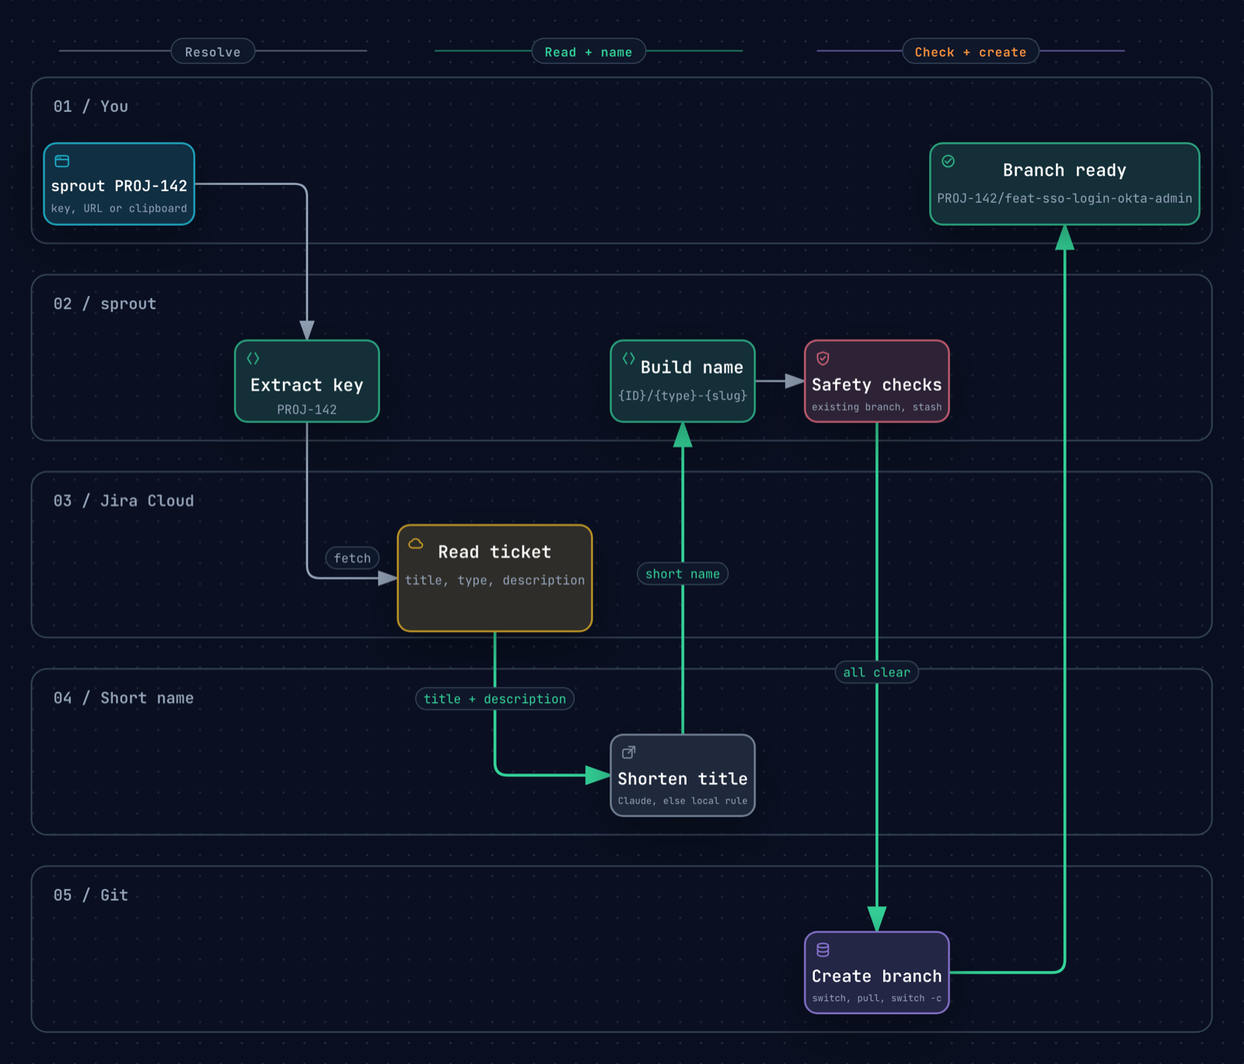
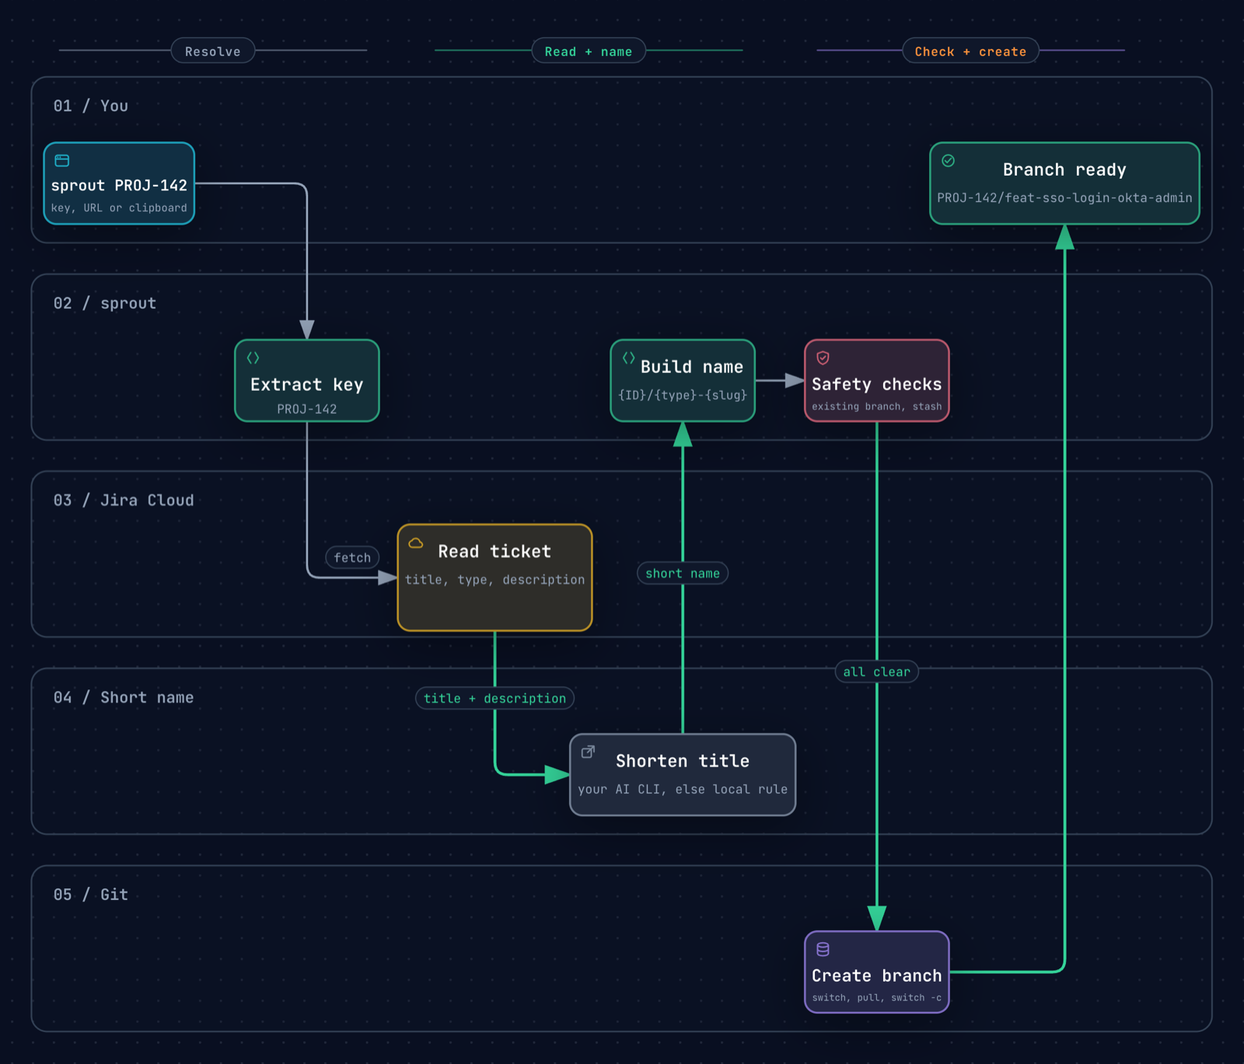
Support any AI CLI for branch names (Claude, Gemini, Codex, Copilot, Cursor or a custom command)

diff --git a/docs/index.html b/docs/index.html
@@ -199,7 +199,7 @@ Switched to a new branch 'PROJ-142/feat-sso-login-okta-admin'</span>
       <div class="grid">
         <article class="card"><div class="ico" aria-hidden="true">#</div><h3>Key or URL, even from the clipboard</h3><p>Pass <code>PROJ-123</code>, paste a Jira link, or run <code>sprout</code> with a URL on your clipboard. Hostnames never get mistaken for tickets.</p></article>
         <article class="card"><div class="ico" aria-hidden="true">&#8644;</div><h3>Reads title and type from Jira</h3><p>Bug becomes <code>fix</code>, Tech task becomes <code>chore</code>, the rest <code>feat</code>. Or pass your own title and type, no Jira needed.</p></article>
-        <article class="card"><div class="ico" aria-hidden="true">&#10024;</div><h3>Short, descriptive, in English</h3><p>With Claude installed, long tickets become 2&ndash;5 meaningful words, translated to English by default (set <code>SPROUT_LANG</code> for another language). Without it, a local rule does the job.</p></article>
+        <article class="card"><div class="ico" aria-hidden="true">&#10024;</div><h3>Short, descriptive, in English</h3><p>With an AI CLI installed (Claude Code, Gemini, Codex, Copilot, Cursor or your own command), long tickets become 2&ndash;5 meaningful words, translated to English by default (set <code>SPROUT_LANG</code> for another language). Without it, a local rule does the job.</p></article>
         <article class="card"><div class="ico" aria-hidden="true">&#128737;</div><h3>Careful with your work</h3><p>Offers to stash uncommitted changes, switches to an existing branch for the ticket instead of duplicating it, and stops at the first Git error.</p></article>
         <article class="card"><div class="ico" aria-hidden="true">&#9881;</div><h3>Your conventions</h3><p>Custom branch format, allowed types, base branch and remote. The remote default branch is auto-detected.</p></article>
         <article class="card"><div class="ico" aria-hidden="true">&#128273;</div><h3>Token stays in the keychain</h3><p>macOS Keychain or libsecret on Linux. Credentials are never written to the config and never appear in <code>ps</code>.</p></article>
@@ -222,7 +222,7 @@ Switched to a new branch 'PROJ-142/feat-sso-login-okta-admin'</span>
   <section id="install" class="band">
     <div class="wrap">
       <h2>Install</h2>
-      <p class="sub">Requires zsh, git, curl, jq and perl. The installer checks them, asks a few questions (Jira site, email, token, base branch, and whether to use Claude for names) and wires everything up.</p>
+      <p class="sub">Requires zsh, git, curl, jq and perl. The installer checks them, asks a few questions (Jira site, email, token, base branch, and which AI to use for names) and wires everything up.</p>
       <div class="tabs-like">
         <div>
           <h3>Homebrew</h3>
@@ -293,8 +293,10 @@ beenjii14/sprout</code></pre><button class="copy" type="button" data-copy="zinit
             <tr><td><code>SPROUT_PULL</code></td><td><code>1</code></td><td>Set to <code>0</code> to skip the pull (offline work); <code>--no-pull</code> does it for one run.</td></tr>
             <tr><td><code>SPROUT_BRANCH_FORMAT</code></td><td><code>{ID}/{type}-{slug}</code></td><td>Template for the name. Placeholders: <code>{ID}</code>, <code>{type}</code>, <code>{slug}</code>.</td></tr>
             <tr><td><code>SPROUT_TYPES</code></td><td><code>feat fix chore</code></td><td>Allowed types, space-separated.</td></tr>
-            <tr><td><code>SPROUT_AI</code></td><td><code>1</code></td><td>Set to <code>0</code> to disable Claude-based name shortening.</td></tr>
-            <tr><td><code>SPROUT_AI_MODEL</code></td><td><code>haiku</code></td><td>Model passed to <code>claude -p</code>.</td></tr>
+            <tr><td><code>SPROUT_AI</code></td><td><code>1</code></td><td>Set to <code>0</code> to disable AI name shortening.</td></tr>
+            <tr><td><code>SPROUT_AI_PROVIDER</code></td><td><em>auto</em></td><td><code>claude</code>, <code>gemini</code>, <code>codex</code>, <code>copilot</code> or <code>cursor-agent</code>. Auto picks the first one on your <code>PATH</code>.</td></tr>
+            <tr><td><code>SPROUT_AI_CMD</code></td><td><em>unset</em></td><td>Any AI command; <code>{prompt}</code> is replaced by the prompt, otherwise it goes to stdin.</td></tr>
+            <tr><td><code>SPROUT_AI_MODEL</code></td><td><code>haiku</code> for Claude</td><td>Model passed to the provider. Unset uses the CLI default.</td></tr>
             <tr><td><code>SPROUT_LANG</code></td><td><code>en</code></td><td>Language of AI-generated names (<code>en</code>, <code>es</code>, <code>pt</code>, <code>fr</code>, <code>de</code>, <code>it</code>, a language name, or <code>ticket</code> to keep the ticket's language).</td></tr>
             <tr><td><code>SPROUT_COMMAND</code></td><td><code>sprout</code></td><td>Rename the command if it clashes with another tool.</td></tr>
             <tr><td><code>SPROUT_DRY_RUN</code></td><td><em>unset</em></td><td>Any value behaves like <code>--dry-run</code>.</td></tr>
@@ -307,9 +309,9 @@ beenjii14/sprout</code></pre><button class="copy" type="button" data-copy="zinit
   <section id="faq">
     <div class="wrap">
       <h2>FAQ</h2>
-      <details><summary>What language are the branch names in?</summary><p>English by default, even for Spanish or other tickets, when Claude is available. Set <code>SPROUT_LANG</code> to <code>es</code>, <code>pt</code>, <code>fr</code>, <code>de</code>, <code>it</code> or any language name, or to <code>ticket</code> to keep the ticket's own language. A title you pass yourself is used as-is.</p></details>
-      <details><summary>What if I do not have Claude installed?</summary><p>sprout still works. It checks for <code>claude</code> on every run and, if it is missing, shortens the title with a local rule: it drops stop-words and keeps the first four meaningful words, without translating.</p></details>
-      <details><summary>Does my ticket text leave my machine?</summary><p>Only when you opt in to AI naming. In that case the title and the first 1,500 characters of the description are sent to Anthropic through your local <code>claude</code> CLI. Disable it with <code>SPROUT_AI=0</code>; sprout then uses a local heuristic and nothing else leaves your machine except the Jira request itself.</p></details>
+      <details><summary>What language are the branch names in?</summary><p>English by default, even for Spanish or other tickets, when an AI CLI is available. Set <code>SPROUT_LANG</code> to <code>es</code>, <code>pt</code>, <code>fr</code>, <code>de</code>, <code>it</code> or any language name, or to <code>ticket</code> to keep the ticket's own language. A title you pass yourself is used as-is.</p></details>
+      <details><summary>What if I do not use Claude, or have no AI CLI?</summary><p>sprout works with Gemini, Codex, Copilot, Cursor or any command set in <code>SPROUT_AI_CMD</code>. With none installed, it shortens the title with a local rule: it drops stop-words and keeps the first four meaningful words, without translating.</p></details>
+      <details><summary>Does my ticket text leave my machine?</summary><p>Only when you opt in to AI naming. In that case the title and the first 1,500 characters of the description are sent to your AI provider through the CLI you use (for example <code>claude</code> or <code>gemini</code>). Disable it with <code>SPROUT_AI=0</code>; sprout then uses a local heuristic and nothing else leaves your machine except the Jira request itself.</p></details>
       <details><summary>Where is my API token stored?</summary><p>In the macOS Keychain or libsecret (service <code>sprout-jira-token</code>). Without either, the installer falls back to a <code>600</code>-mode file. sprout passes it to curl over stdin, so it never appears in process listings. Prefer to manage it yourself? Export <code>JIRA_API_TOKEN</code>.</p></details>
       <details><summary>Does it work with Jira Server or Data Center?</summary><p>Not yet. The lookup uses the Jira Cloud REST API v3 with an API token. You can still use sprout anywhere by passing the title yourself.</p></details>
       <details><summary>The <code>sprout</code> command clashes with something else on my machine.</summary><p>Set <code>SPROUT_COMMAND=sp</code> (or any name) in your config and open a new shell. The command, help text and completion follow it.</p></details>

diff --git a/docs/diagrams/how-it-works.html b/docs/diagrams/how-it-works.html
@@ -5285,7 +5285,7 @@ OTHER DEALINGS IN THE FONT SOFTWARE.
         <path data-edge-from="git" data-edge-to="done" data-edge-key="2" data-edge-id="ready" data-composition-routing="workflow-v2-auto" data-edge-role="" data-composition-points="626,624;700,624;700,146" d="M 626 624 L 692 624 Q 700 624 700 616 L 700 146" class="a-emphasis" data-animate="edge" style="--step:6" stroke-width="1.8" marker-end="url(#arrowhead-emphasis)"/>
         <path data-edge-from="cmd" data-edge-to="key" data-edge-key="3" data-edge-id="run" data-composition-routing="workflow-v2-auto" data-edge-role="" data-composition-points="144,120;216,120;216,220" d="M 144 120 L 208 120 Q 216 120 216 128 L 216 220" class="a-default" data-animate="edge" style="--step:0" stroke-width="1.4" marker-end="url(#arrowhead)"/>
         <path data-edge-from="shorten" data-edge-to="build" data-edge-label="short name" data-edge-key="4" data-edge-id="short-name" data-composition-routing="workflow-v2-auto" data-edge-role="" data-composition-points="456,472;456,272" d="M 456 472 L 456 272" class="a-emphasis" data-animate="edge" style="--step:3" stroke-width="1.8" marker-end="url(#arrowhead-emphasis)"/>
-        <path data-edge-from="jira" data-edge-to="shorten" data-edge-label="title + description" data-edge-key="5" data-edge-id="title" data-composition-routing="workflow-v2-auto" data-edge-role="" data-composition-points="336,406;336,498;410,498" d="M 336 406 L 336 490 Q 336 498 344 498 L 410 498" class="a-emphasis" data-animate="edge" style="--step:2" stroke-width="1.8" marker-end="url(#arrowhead-emphasis)"/>
+        <path data-edge-from="jira" data-edge-to="shorten" data-edge-label="title + description" data-edge-key="5" data-edge-id="title" data-composition-routing="workflow-v2-auto" data-edge-role="" data-composition-points="336,406;336,498;384,498" d="M 336 406 L 336 490 Q 336 498 344 498 L 384 498" class="a-emphasis" data-animate="edge" style="--step:2" stroke-width="1.8" marker-end="url(#arrowhead-emphasis)"/>
         <path data-edge-from="build" data-edge-to="checks" data-edge-key="6" data-edge-id="to-checks" data-composition-routing="workflow-v2-auto" data-edge-role="" data-composition-points="502,246;534,246" d="M 502 246 L 534 246" class="a-default" data-animate="edge" style="--step:4" stroke-width="1.4" marker-end="url(#arrowhead)"/>
 
         <!-- Nodes -->
@@ -5361,16 +5361,16 @@ OTHER DEALINGS IN THE FONT SOFTWARE.
         <text data-detail="fine" x="336" y="394" class="t-cloud" font-size="7" text-anchor="middle">skipped if you pass a title</text>
         </g>
 
-        <g id="node-shorten" data-node-id="shorten" data-node-label="Shorten title" tabindex="0" role="button" aria-label="Focus Shorten title, Claude, else local rule, Short name › Read + name" aria-pressed="false" data-node-kind="external" data-node-sublabel="Claude, else local rule" data-node-context="Short name › Read + name">
-          <title>Shorten title · Claude, else local rule · Short name › Read + name</title>
-          <rect x="410" y="472" width="92" height="52" rx="8" class="c-mask"/>
-          <rect x="410" y="472" width="92" height="52" rx="8" class="c-external" data-animate="node" style="--step:3" stroke-width="1.5"/>
-          <g aria-hidden="true" data-semantic-sigil="external" class="semantic-sigil s-external" transform="translate(416 478) scale(0.6875)">
+        <g id="node-shorten" data-node-id="shorten" data-node-label="Shorten title" tabindex="0" role="button" aria-label="Focus Shorten title, your AI CLI, else local rule, Short name › Read + name" aria-pressed="false" data-node-kind="external" data-node-sublabel="your AI CLI, else local rule" data-node-context="Short name › Read + name">
+          <title>Shorten title · your AI CLI, else local rule · Short name › Read + name</title>
+          <rect x="384" y="472" width="144" height="52" rx="8" class="c-mask"/>
+          <rect x="384" y="472" width="144" height="52" rx="8" class="c-external" data-animate="node" style="--step:3" stroke-width="1.5"/>
+          <g aria-hidden="true" data-semantic-sigil="external" class="semantic-sigil s-external" transform="translate(390 478) scale(0.6875)">
             <rect x="2.5" y="5" width="8.5" height="8" rx="1.5"/>
             <path d="M8 2.5h5.5V8M13.5 2.5 7.5 8.5"/>
           </g>
-          <text data-node-label="" data-detail-anchor="" x="456" y="503.9" class="t-primary" font-size="10.7" font-weight="600" text-anchor="middle">Shorten title</text>
-          <text data-detail="context" x="456" y="516.4" class="t-muted" font-size="6" text-anchor="middle">Claude, else local rule</text>
+          <text data-node-label="" data-detail-anchor="" x="456" y="493" class="t-primary" font-size="11" font-weight="600" text-anchor="middle">Shorten title</text>
+          <text data-detail="context" x="456" y="510" class="t-muted" font-size="8" text-anchor="middle">your AI CLI, else local rule</text>
         </g>
 
         <g id="node-git" data-node-id="git" data-node-label="Create branch" tabindex="0" role="button" aria-label="Focus Create branch, switch, pull, switch -c, Git › Check + create" aria-pressed="false" data-node-kind="database" data-node-sublabel="switch, pull, switch -c" data-node-context="Git › Check + create">
@@ -5625,11 +5625,11 @@ OTHER DEALINGS IN THE FONT SOFTWARE.
       <div class="card">
         <div class="card-header">
           <div class="card-dot emerald"></div>
-          <h3>Claude or local rule</h3>
+          <h3>AI CLI or local rule</h3>
         </div>
         <ul>
-          <li>With the Claude CLI: 2-5 words, translated to English by default</li>
-          <li>Without it, a local rule keeps the first meaningful words</li>
+          <li>With an AI CLI (Claude, Gemini, Codex, Copilot, Cursor...): 2-5 words, in English by default</li>
+          <li>Without one, a local rule keeps the first meaningful words</li>
         </ul>
       </div>
 

diff --git a/README.md b/README.md
@@ -40,7 +40,7 @@ switch to the base branch, pull, create the branch. Do that ten times a week and
 | --- | --- |
 | 🎫 **One command** | `sprout PROJ-142`, or paste a Jira URL, or just run `sprout` with a link on your clipboard. |
 | 🔎 **Reads Jira for you** | Title, issue type and description become the branch name and the `feat` / `fix` / `chore` prefix. |
-| 🌱 **Short, descriptive, in English** | With [Claude](https://claude.com/claude-code) installed, long titles become 2–5 meaningful words, translated to English by default. Without it, a local rule does the job. |
+| 🌱 **Short, descriptive, in English** | With an AI CLI installed ([Claude Code](https://claude.com/claude-code), Gemini CLI, Codex, GitHub Copilot CLI, Cursor, or any command you configure), long titles become 2–5 meaningful words, translated to English by default. Without one, a local rule does the job. |
 | 🛡 **Careful with your work** | Offers to stash uncommitted changes, reuses an existing branch for the ticket, and stops at the first Git error. |
 | ⚙ **Yours to configure** | Branch format, language, base branch and remote. |
 | 🔐 **Secrets stay secret** | Your API token lives in the macOS Keychain or libsecret, never in a config file. |
@@ -70,7 +70,7 @@ sprout PROJ-142
 <div align="center">
 <picture>
   <source media="(prefers-color-scheme: dark)" srcset="docs/assets/how-it-works-dark.png">
-  <img src="docs/assets/how-it-works-light.png" alt="How sprout works: you run sprout PROJ-142, it extracts the key, reads the ticket from Jira, shortens the title with Claude or a local rule, builds the name, runs safety checks and creates the branch" width="860">
+  <img src="docs/assets/how-it-works-light.png" alt="How sprout works: you run sprout PROJ-142, it extracts the key, reads the ticket from Jira, shortens the title with your AI CLI or a local rule, builds the name, runs safety checks and creates the branch" width="860">
 </picture>
 
 <sub>Interactive version: <a href="https://beenjii14.github.io/sprout/diagrams/how-it-works.html">open the diagram</a></sub>
@@ -88,7 +88,7 @@ sprout PROJ-142
 | `git` | creates the branches | |
 | `curl`, `jq` | talk to Jira | only needed for ticket lookups |
 | `perl` | accent-safe slugs | preinstalled on macOS and most Linux |
-| [`claude`](https://claude.com/claude-code) | *optional*: smarter, translated names | without it, a local rule shortens the title |
+| an AI CLI: `claude`, `gemini`, `codex`, `copilot` or `cursor-agent` | *optional*: smarter, translated names | without one, a local rule shortens the title |
 
 Supported: macOS and Linux, Jira Cloud (API v3, API-token authentication). Using `sprout` with an explicit title needs no Jira at all.
 
@@ -101,7 +101,7 @@ brew install sprout
 sprout-setup                 # guided setup: Jira site, email, token, base branch
 ```
 
-`sprout-setup` asks for your Jira site, email, API token and base branch (and, only if `claude` is installed, whether to
+`sprout-setup` asks for your Jira site, email, API token and base branch (and, if it finds an AI CLI, whether to
 use it for names), stores your token in the macOS Keychain, writes `~/.config/sprout/config`, adds the loader to
 your `~/.zshrc` and verifies the Jira connection. Open a new terminal afterwards. Upgrade with `brew upgrade sprout`.
 
@@ -230,8 +230,10 @@ Put these in `~/.config/sprout/config` (written by the installer) or export them
 | `SPROUT_PULL` | `1` | Set to `0` to skip the pull (offline work). `--no-pull` does it for one run. |
 | `SPROUT_BRANCH_FORMAT` | `{ID}/{type}-{slug}` | Branch template. Placeholders: `{ID}`, `{type}`, `{slug}`. |
 | `SPROUT_TYPES` | `feat fix chore` | Allowed types, space-separated. |
-| `SPROUT_AI` | `1` | Set to `0` to disable Claude-based shortening. |
-| `SPROUT_AI_MODEL` | `haiku` | Model passed to `claude -p`. |
+| `SPROUT_AI` | `1` | Set to `0` to disable AI shortening. |
+| `SPROUT_AI_PROVIDER` | *auto* | `claude`, `gemini`, `codex`, `copilot` or `cursor-agent`. Auto picks the first one found on your `PATH`. |
+| `SPROUT_AI_CMD` | *unset* | Any AI command. `{prompt}` is replaced by the prompt; without it, the prompt is sent on stdin. Overrides the provider. |
+| `SPROUT_AI_MODEL` | `haiku` for Claude | Model passed to the provider (`--model`/`-m`). Leave unset for the CLI's own default. |
 | `SPROUT_LANG` | `en` | Language of AI-generated names: `en`, `es`, `pt`, `fr`, `de`, `it`, any language name, or `ticket` to keep the ticket's own language. |
 | `SPROUT_COMMAND` | `sprout` | Rename the command if it clashes with another tool. |
 | `SPROUT_DRY_RUN` | *unset* | Any value behaves like `--dry-run`. |
@@ -270,22 +272,45 @@ The token is handed to `curl` over stdin, so it never shows up in `ps`. Revoke i
 
 ## 🤖 AI-assisted names and privacy
 
-When `claude` (the [Claude Code CLI](https://claude.com/claude-code)) is installed and `SPROUT_AI` is not `0`,
-`sprout` sends **the ticket title and the first 1,500 characters of its description** to Anthropic through that CLI to get a
-2–5 word name. The prompt tells the model to base the name on the title, keep proper nouns and technologies,
-never invent concepts, and write the name in English by default (a Spanish ticket becomes an English branch name;
-change it with `SPROUT_LANG`). The answer is validated (`[a-z0-9-]` only, 3–40 characters); if it fails, times out (25 s)
-or looks wrong, `sprout` falls back to a local heuristic that drops stop-words and keeps the first four meaningful words
-(the heuristic cannot translate, so it keeps the ticket's own words).
+When an AI CLI is available and `SPROUT_AI` is not `0`, `sprout` sends **the ticket title and the first 1,500 characters
+of its description** to that tool's provider to get a 2–5 word name. The prompt tells the model to base the name on the
+title, keep proper nouns and technologies, never invent concepts, and write the name in English by default (a Spanish
+ticket becomes an English branch name; change it with `SPROUT_LANG`). The answer is validated (`[a-z0-9-]` only, 3–40
+characters); if it fails, times out (25 s) or looks wrong, `sprout` falls back to a local heuristic that drops stop-words
+and keeps the first four meaningful words (the heuristic cannot translate, so it keeps the ticket's own words).
+
+**Which AI?** Whatever you already use, as long as it has a command-line tool:
+
+| Tool | Provider value | Command `sprout` runs |
+| --- | --- | --- |
+| [Claude Code](https://claude.com/claude-code) | `claude` | `claude -p --model haiku "<prompt>"` |
+| [Gemini CLI](https://geminicli.com) | `gemini` | `gemini -p "<prompt>"` |
+| [OpenAI Codex CLI](https://developers.openai.com/codex) | `codex` | `codex exec -` (prompt on stdin) |
+| [GitHub Copilot CLI](https://docs.github.com/copilot/how-tos/copilot-cli) | `copilot` | `copilot -s -p "<prompt>"` |
+| [Cursor CLI](https://cursor.com/docs/cli) | `cursor-agent` | `cursor-agent -p "<prompt>"` |
+
+With no setting, `sprout` uses the first of these it finds on your `PATH`; `sprout-setup` shows what it found and lets you
+choose. Set `SPROUT_AI_PROVIDER` to force one, or `SPROUT_AI_CMD` for anything else:
+
+```sh
+export SPROUT_AI_CMD='ollama run llama3.2'         # a local model: nothing leaves your machine
+export SPROUT_AI_CMD='llm -m gpt-4o-mini'          # Simon Willison's llm
+export SPROUT_AI_CMD='my-ai --short {prompt}'      # {prompt} becomes an argument; without it, stdin
+```
+
+> [!NOTE]
+> Only the Claude preset is tested end to end by the maintainer. The others follow each tool's documented non-interactive mode
+> and are covered by tests with stand-in commands. If one breaks with your version, set `SPROUT_AI_CMD` to the right command
+> and please [open an issue](https://github.com/beenjii14/sprout/issues).
 
 **Language.** Names are written in English by default, so a ticket titled *"Agregar login con SSO para el panel de administración"*
 becomes something like `admin-panel-sso-login`. Set `SPROUT_LANG` to `es`, `pt`, `fr`, `de`, `it`, any language name, or `ticket`
 to keep the ticket's own language.
 
 > [!NOTE]
-> **No `claude`? No problem.** `sprout` checks for the command on every run. If it is missing, or `SPROUT_AI=0`, the local rule is used and everything else works the same.
-> `sprout-setup` writes `SPROUT_AI=0` to your config when you decline the question or `claude` is not installed yet;
-> install `claude` later and set `SPROUT_AI=1` (or delete that line) to turn it on.
+> **No AI CLI? No problem.** `sprout` checks for one on every run. If none is found, or `SPROUT_AI=0`, the local rule is used and everything else works the same.
+> `sprout-setup` writes `SPROUT_AI=0` to your config when you decline the question or no AI CLI is installed yet;
+> install one later and set `SPROUT_AI=1` (or delete that line) to turn it on.
 
 > [!IMPORTANT]
 > Working with confidential tickets? Set `SPROUT_AI=0`. Nothing but the Jira request then leaves your machine.
@@ -309,15 +334,15 @@ Set `export SPROUT_COMMAND=sp` (any name) in `~/.config/sprout/config` and open 
 
 <br>
 
-English by default, even for Spanish (or other) tickets, when Claude is available. Change it with `SPROUT_LANG` (`es`, `pt`, `fr`, `de`, `it`, any language name) or use `SPROUT_LANG=ticket` to keep the ticket's language. When you pass the title yourself, it is used as-is.
+English by default, even for Spanish (or other) tickets, when an AI CLI is available. Change it with `SPROUT_LANG` (`es`, `pt`, `fr`, `de`, `it`, any language name) or use `SPROUT_LANG=ticket` to keep the ticket's language. When you pass the title yourself, it is used as-is.
 </details>
 
 <details>
-<summary><b>What if I do not have Claude installed?</b></summary>
+<summary><b>What if I do not use Claude, or have no AI CLI at all?</b></summary>
 
 <br>
 
-`sprout` still works: it shortens the title with a local rule (drops stop-words, keeps the first four meaningful words) and keeps the ticket's own words, with no translation.
+`sprout` works with Gemini, Codex, Copilot, Cursor or any command you configure (see [Which AI?](#-ai-assisted-names-and-privacy)). With none, it shortens the title with a local rule (drops stop-words, keeps the first four meaningful words) and keeps the ticket's own words, with no translation.
 </details>
 
 <details>

diff --git a/CHANGELOG.md b/CHANGELOG.md
@@ -4,6 +4,17 @@ All notable changes to this project are documented here. The format follows
 [Keep a Changelog](https://keepachangelog.com/en/1.1.0/) and the project adheres to
 [Semantic Versioning](https://semver.org/).
 
+## [0.4.0] - 2026-11-03
+
+### Added
+- Support for AI CLIs other than Claude: Gemini CLI, OpenAI Codex CLI, GitHub Copilot CLI and Cursor CLI, picked
+  automatically from the `PATH` or forced with `SPROUT_AI_PROVIDER`.
+- `SPROUT_AI_CMD` runs any AI command (`{prompt}` is replaced by the prompt, otherwise it goes to stdin).
+- `sprout-setup` lists the AI CLIs it finds and asks which one to use.
+
+### Changed
+- `SPROUT_AI_MODEL` applies to any provider and defaults to `haiku` only for Claude.
+
 ## [0.3.0] - 2026-11-03
 
 ### Added
@@ -29,5 +40,6 @@ First public release.
 - Zsh tab completion, `--dry-run`, `--help` and `--version`.
 - Offline test suite, GitHub Actions CI on macOS and Ubuntu, and a project website.
 
+[0.4.0]: https://github.com/beenjii14/sprout/releases/tag/v0.4.0
 [0.3.0]: https://github.com/beenjii14/sprout/releases/tag/v0.3.0
 [0.2.0]: https://github.com/beenjii14/sprout/releases/tag/v0.2.0
